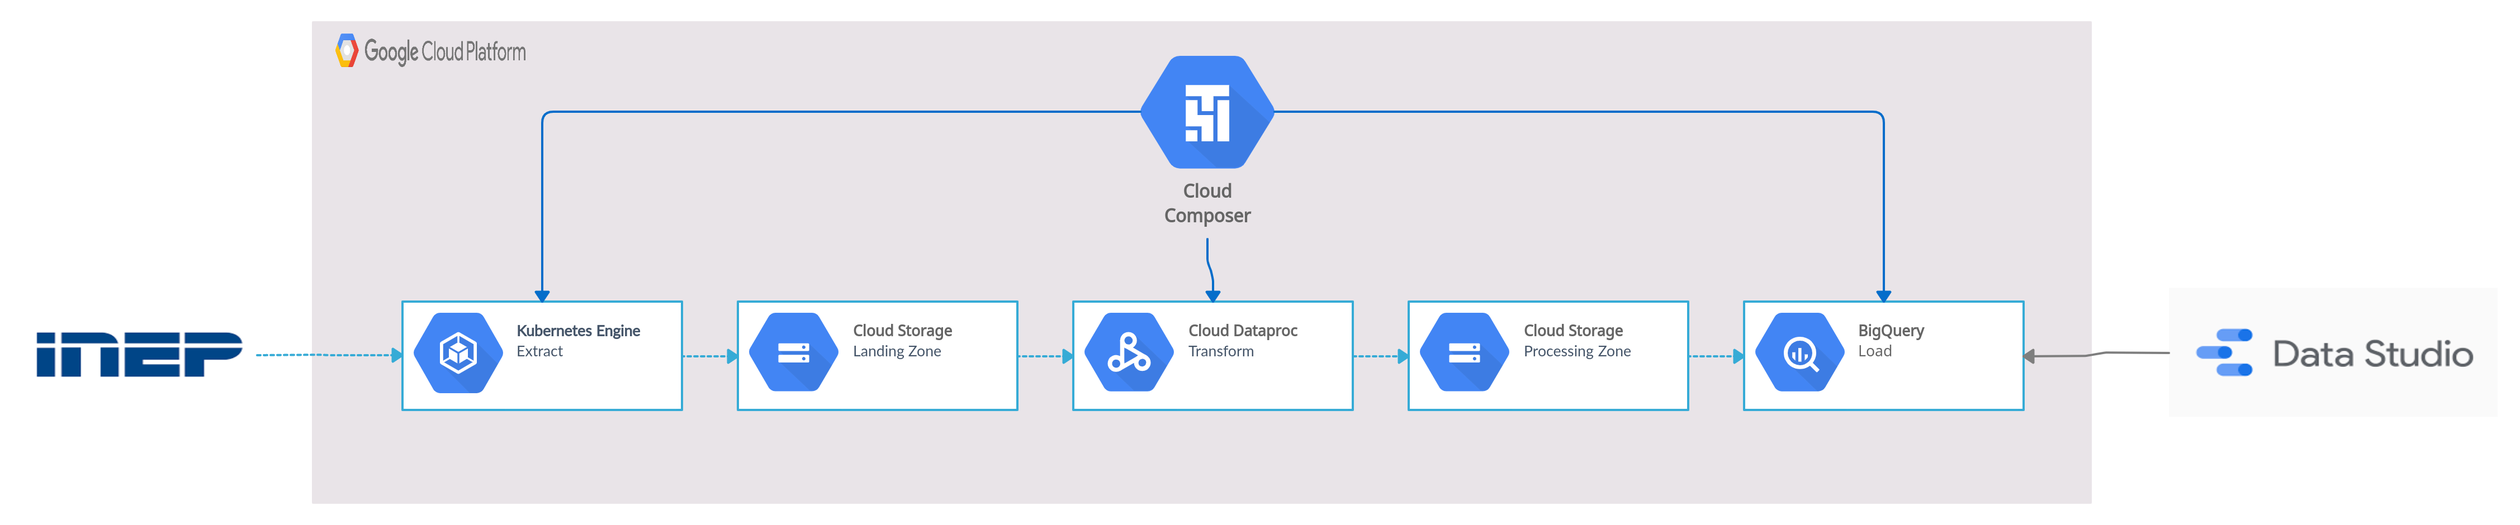
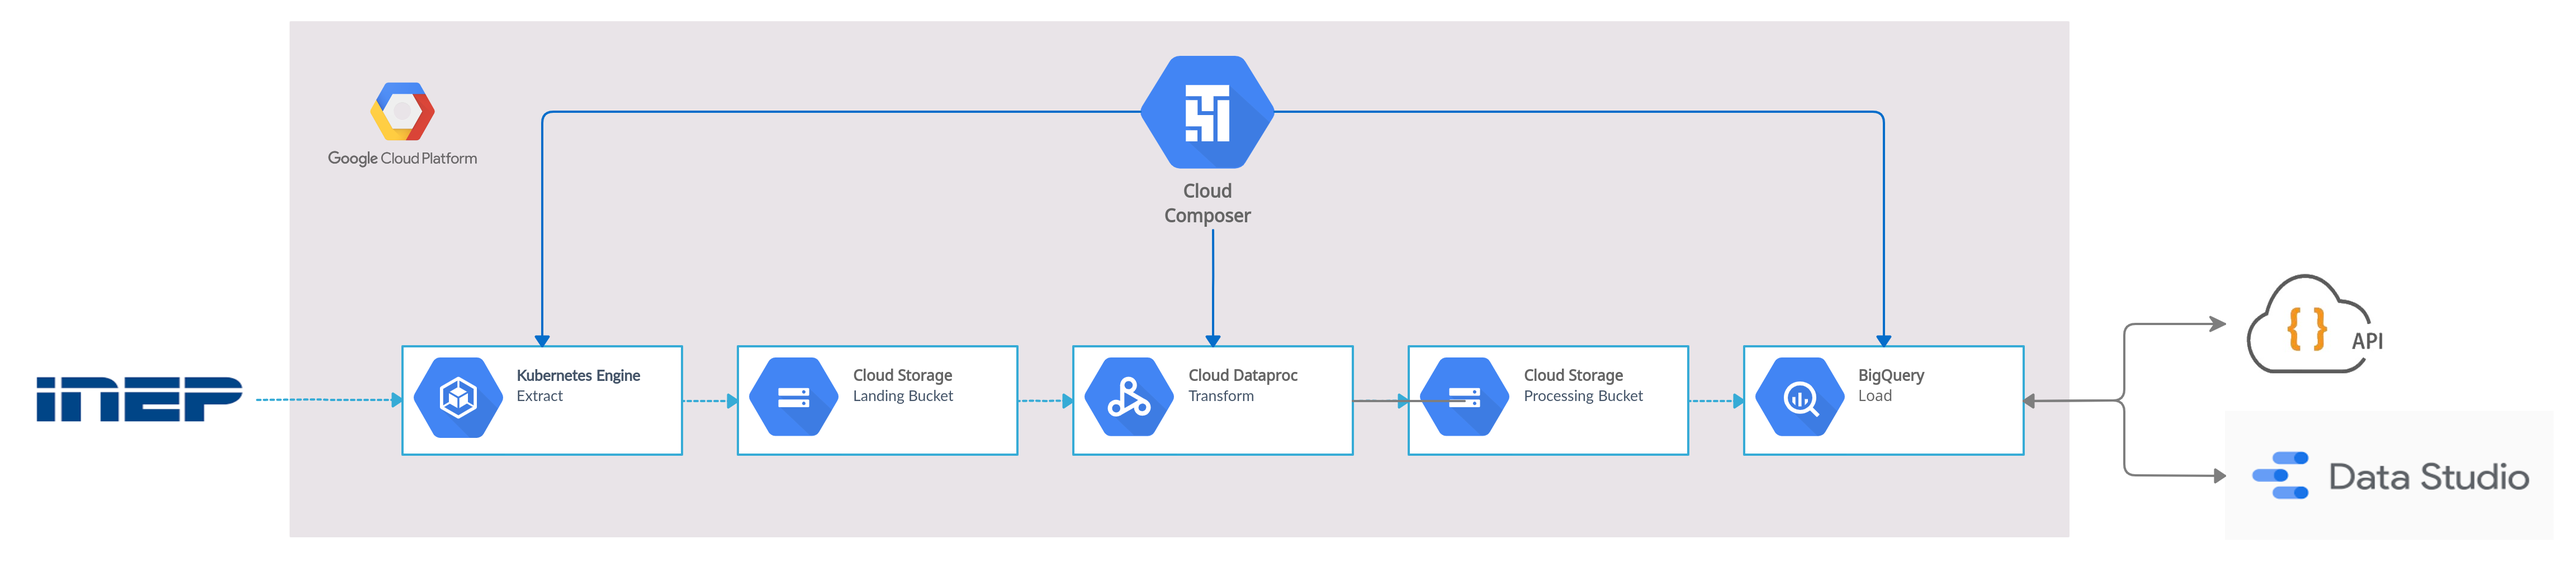
atualizado documentacao

Changed region(s): [[0.0, 0.0309, 0.9938, 0.9872], [0.2174, 0.0926, 0.7453, 0.4319], [0.8696, 0.4628, 0.9006, 0.4936]]

diff --git a/README.md b/README.md
@@ -29,29 +29,136 @@ Em 2019 e 2020 também existe um arquivo para gestores.
 utilizado com prefixo dos buckets onde serão armezanados os dados.
 3. Acesse [Google Cloud Build](https://console.cloud.google.com/cloud-build/triggers) e crie uma conexão com seu repositório Github.
 4. Entre no Google Cloud Shell. O ícone dele está na parte superior do console, próximo a foto da sua conta Google. 
-   No aba do Cloud Shell clique no botão ```Abrir editor``` para abrir o Visual Studio Code.
-5. Pode ser que o editor não abra porque os cookies de terceiros estão desativados no navegador. Para
+   No aba do Cloud Shell clique no botão ```Abrir editor``` para abrir o Visual Studio Code. Pode ser que o editor não abra porque os cookies de terceiros estão desativados no navegador. Para
 contornar isso, pode-se abrir uma exceção para o Cloud Shell no ícone que na direita da barra de endereço.
 6. No Visual Studio Code abra um terminal e clone o fork que você realizou desse projeto.
-7. No arquivo ```~/etl_censo_escolar/infra/variables.tf``` coloque o nome do projeto que você criou no passo 2 
-    e o seu usuário Github. 
+7. No arquivo ```~/etl_censo_escolar/infra/variables.tf``` coloque o nome do projeto que você criou no passo 2 e o
+   seu usuário Github. 
 8. Execute ```make init``` para ativar as APIs do GCP necessárias para o projeto e para instalar os
 plugins Terraform.
-9. Execute ```make apply```. Será printado o plano de deploy do Terraform. 
-10. Digite yes para aceitar esse plano e começar o deploy do projeto.
+9. Execute ```make apply```. Será printado o plano de deploy do Terraform. Digite yes para aceitar esse plano e começar o deploy do projeto.
 11. Após o deploy do último componente (Composer), será printado que um componente não foi deployado corretamente.
     Isso aconteceu porque nesse primeiro apply foi baixado um arquivo no mesmo caminho de build de uma imagem Docker. 
-O terraform buga e não constrói a imagem. Para resolver isso execute ```make apply``` novamente
+O terraform buga e não constrói a imagem. Para resolver isso basta executar ```make apply``` novamente.
     
 12. Ao final de apply será printado o link de acesso do Airflow da GCP, o Composer.
-13. As dags do Composer e os arquivos de ETL utlizados pelo Dataproc e BigQuery são sincronizado com o seu repositório Github. 
+13. As dags do Composer e os arquivos de ETL utlizados pelo Dataproc e BigQuery são sincronizados com o seu repositório Github. 
 A sincronização acontece sempre que haver um commit no repositório remoto. Portanto, faça um commit e um push das suas alterações.
     
 14. Deploy finalizado! 
 
-# Infra
+# Infraestrutura
 
 ![image](img/infra.png)
+
+A infraestrutura do projeto se divide entre aquela provisionada pela Terraform utilizando o comando ```make apply```
+e aquela provisionada pelo Composer ao trigar a dag **censo-escolar**.
+
+## Infraestrutura provisionada pelo Terraform
+Visa provisionar o Composer e todos os outros componentes que não podem ser
+provisionados no Composer, que são:
+ - 3 Google Storage Bucket, um para armazenar os dados extraídos do site do INEP, 
+   um para os dados transformados e um para os scripts utilizados pelo ETL.
+     
+ - 2 Google Build Trigger, um para sincronizar as DAGs e outro os scripts de ETL com os arquivos que estão
+   no repositório Github.
+   
+ - Imagem Docker utilizada que é salva no Google Cloud Container Registry e que será 
+   usada por um Pod GKE na parte da extração. 
+
+ - BigQuery Dataset de nome **censo_escolar**.
+   
+ - Service Account para permitir que o Pod de extração no GKE e o script de transformação no Dataproc consigam 
+   baixar e upar arquivos do Storage.
+   
+ - E finalmente o Composer, o Airflow da GCP, que irá orquestar o ETL.
+
+## Infraestrutura provisionada pelo Composer
+Através de operadores do Google, é possível criar e destruir os componentes que fazem de fato o ETL, que são:
+ - Um cluster GKE: consegue rodar até 10 pods, cada um extraindo os dados de um **ano entre 2011 e 2020**.
+ - Um cluster Dataproc com Pyspark: para executar os jobs de transformação em cima dos dados extraídos pelo GKE.
+ - Tabelas BiqQuery: cria ou atualiza as tabelas **matrículas**, **docentes**, **gestores**, ***turmas***
+   e **escolas** no dataset **censo_escolar**. 
+   
+
+# ETL
+
+## Extração
+![DAG](img/extract.png)
+1. Verifica quais anos entre 2011 e 2020 não estão no Landing Bucket. 
+   
+2. Se houver algum ano faltando, é criado um cluster no GKE para instanciar os pod de extraçãp. 
+   O tamanho do cluster é definido dinamicamente e será de no máximo 24 Cores de CPU, que é a cota máxima de Cores numa região para
+um conta GCP de teste. O fluxo de extração é realizado de forma pararela para cada ano.
+   
+3. Dentro do pod extração, primeiro é baixado o ZIP contendo os dados do site do INEP, extraídos e
+upados no Landing Bucket como arquivos CSV.
+   
+
+## Transformação
+![DAG](img/transform.png)
+1. Verifica quais anos entre 2011 e 2020 não estão no Processing Bucket.
+2. Se houver alguma ano faltando é criado um Cluster, com 1 nodo master e 2 workers, cada um
+de 8 cores e 52 RAM. Um fluxo serial executa a transformação dos arquivos presentes em cada ano.
+   
+3. Para simplificar essa parte do pipeline, a leitura dos CSVs do Landing Bucket
+   utiliza o schema feito a partir daquilo explicado no dicionário de dados de 2020.
+4. A transformação com Pyspark começa com mapeamento das colunas categóricas usando um json
+construido no notebook maps.ipynb.
+
+5. Colunas de data são convertidas de string para DateType.
+
+6. Colunas de inteiros e booleanos são convertidos para os seus respectios tipos em Spark.
+
+7. Algumas colunas de booleanos são criadas a partir de um OR lógicos de outras 2 colunas booleanas.
+
+8. As tabelas escolas, turmas e gestores são configuradas para serem salvas em apenas 1 arquivo
+   parquet, já que são
+tabelas pequenas. Docentes e matrículas terão aproximadamente 120 MB em arquivo.
+   
+9. Por fim, o dataframe de cada tabela são salvos no Processing Bucket usando o particionamento por ano, 
+respeitando o tamanho de cada parquet do passo anterior.
+   
+## Carregamento
+![DAG](img/load.png)
+1. Verifica se houve anos adicionados na Processing Bucket. Se houver,
+ele cria ou substitui todas as tabelas no BigQuery utilizando os
+   dados que estão no Processing Bucket. As tabelas criadas
+   são do tipo interna.
+   
+# Dificuldades & Aprendizados
+ - GKE
+   - A API do google.cloud.container utlizada pelo Composer é desatualizada.
+As informações presentes na documentação não condizem com a forma de criar 
+   pelo console um cluster hoje em dia. Além disso, há alguns conflitos entre a documentação
+   e o código.
+
+    - Na [documentação do GKE](https://cloud.google.com/kubernetes-engine/docs/how-to/workload-identity)
+    é dito que Workload Identity é a forma recomenda para acessar os servicos da 
+      Google Cloud de dentro da cargas de trabalho. Essa documentação não funcionou
+      para mim e a única forma que eu consegui para upar os arquivos de extração no
+      Storage nos pods de extração foi montando a imagem deles copiando um arquivo
+      de credencial, o que não é recomendado.
+ - Dataproc
+    - Já havia brincado com o Pyspark antes, mas nada muito relevantes. A sintaxe é
+    parecida com Pandas, o que ajuda bastante. Já diferentemente do Pandas, 
+      o seu funcionamento interno exige um maior estudo.
+      
+ - BigQuery
+    - Tabelas externas exigem apenas uma task no Composer para serem criadas ou
+    atualizadas, porém a sua consulta federada não é tão eficiente nesse projeto 
+      já que os dados no Processing Bucket são atualizados somente 1 vez por ano,
+      o que faz uma tabela interna ser mais pertinente.
+      Tabelas internas também fazem consultas mais rápidas já que os dados são
+      copiados para um formato próprio do BigQuery, necessitando ler os parquets
+      somente no momento de criação da tabela.
+    
+   
+
+   
+
+
+ 
 
 
 
